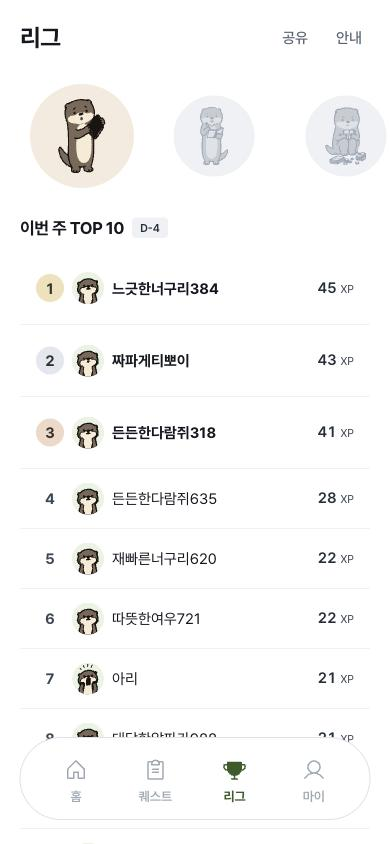
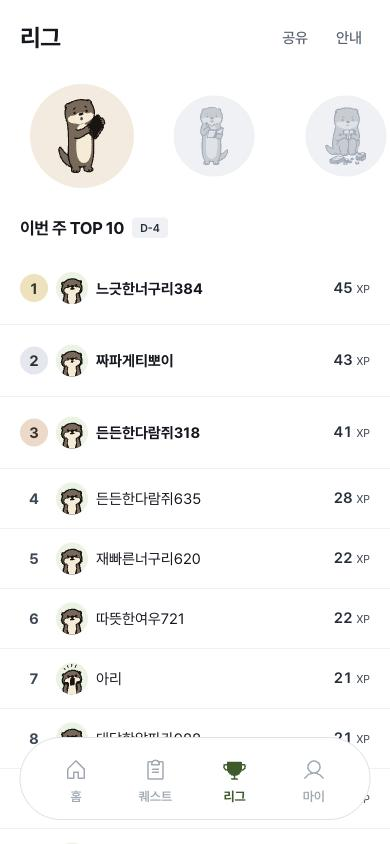
리그 TOP 10 목록을 화면 폭 꽉 차게(행 내용은 제목과 같은 20px 선)

diff --git a/src/index.css b/src/index.css
@@ -837,8 +837,9 @@ button.mission-reward-status {
 /* 리그 순위표: 숫자 순위·기존 수달·이름·경험치를 일정한 열로 정렬한다. */
 /* 작은 글자 버튼도 손가락 크기(44px) 이상 눌리게 한다(피츠). */
 .league-header-action { display: inline-flex !important; min-height: var(--size-touch-min) !important; align-items: center; padding-inline: var(--space-2) !important; }
-.league-ranking-list { margin-inline: 0; }
-.league-ranking-row { display: grid; grid-template-columns: 28px 32px minmax(0, 1fr) auto; align-items: center; column-gap: var(--space-2); min-height: 60px; padding: var(--space-3) var(--space-4); }
+/* 순위 목록은 화면 폭을 꽉 채우고(좌우 여백 상쇄), 행 안 내용은 제목과 같은 20px 선에 맞춘다 */
+.league-ranking-list { margin-inline: calc(-1 * var(--space-5)); border-radius: 0 !important; }
+.league-ranking-row { display: grid; grid-template-columns: 28px 32px minmax(0, 1fr) auto; align-items: center; column-gap: var(--space-2); min-height: 60px; padding: var(--space-3) var(--space-5); }
 .league-ranking-row + .league-ranking-row { border-top: 1px solid var(--color-surface); }
 .league-ranking-row.is-me { background: var(--color-neutral-soft); }
 .league-ranking-row.is-own-separate { border-top: 2px dashed var(--color-surface); }
